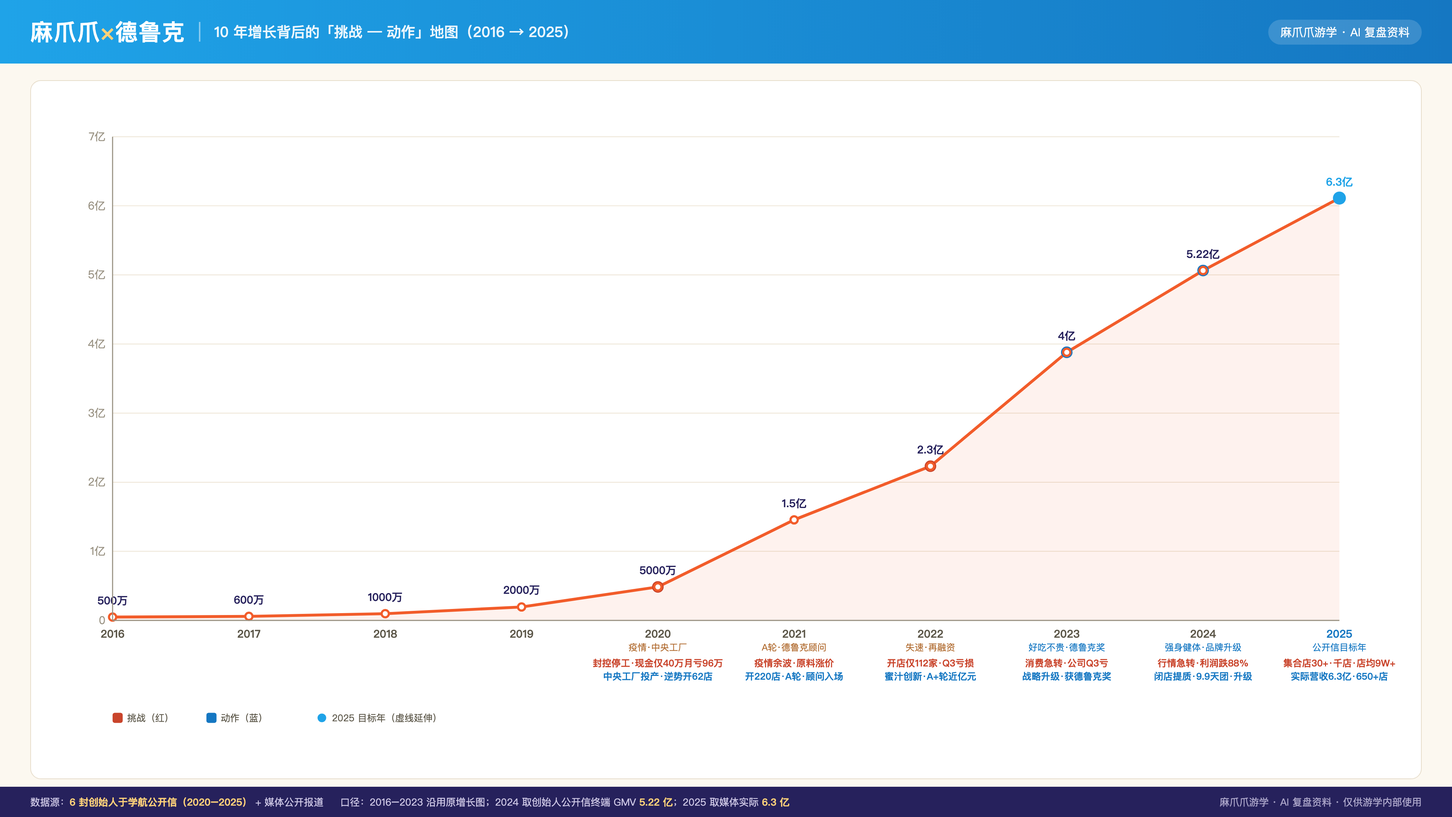
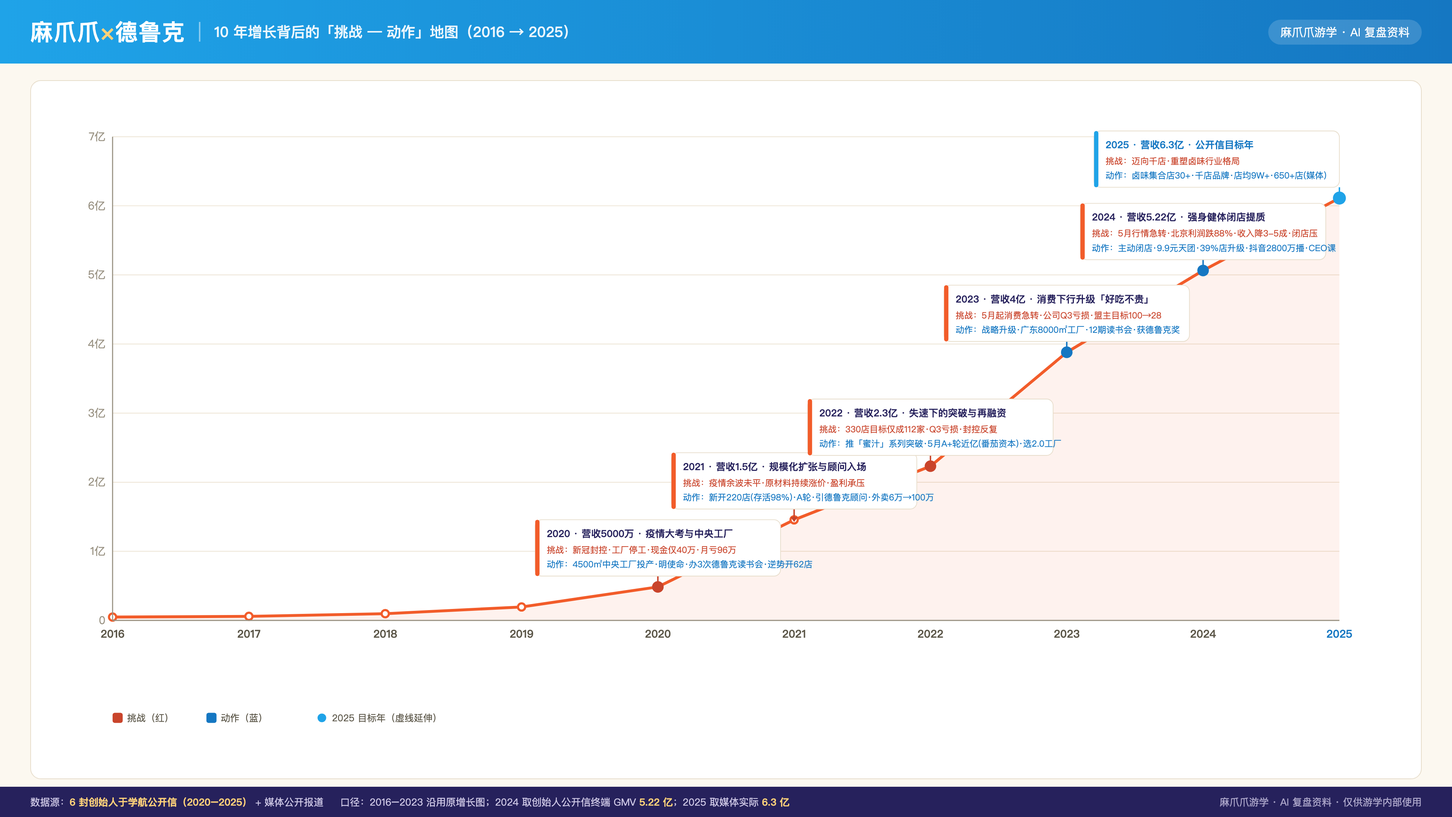
refactor: 增长图改成阶梯式标注卡(白卡+箭头指向红点,文字更详细)

diff --git a/麻爪爪增长图/麻爪爪增长图.html b/麻爪爪增长图/麻爪爪增长图.html
@@ -1,218 +1,193 @@
 <!DOCTYPE html>
-<html lang="zh-CN" data-page-node-id="DLvMQiXwWJyCf3pHoJ9dK3">
-<head data-page-node-id="TqVUnNRjd957ooH9zvPUG7">
-<meta charset="utf-8" data-page-node-id="NRvl7RgWLK0skeNorIsaU5">
+<html lang="zh-CN" data-page-node-id="DrVV4OsqwhjwbeRrLaZFBS">
+<head data-page-node-id="THE7OzbsE7HABSU1XOJDzS">
+<meta charset="utf-8" data-page-node-id="LMEACdOzOsFsvD1XphroMc">
 <title>麻爪爪 × 德鲁克 · 10年增长背后的「挑战—动作」地图</title>
 <style>
   * { box-sizing: border-box; margin: 0; padding: 0; }
   html, body {
     font-family: "PingFang SC", "Microsoft YaHei", "Hiragino Sans GB", sans-serif;
-    background: #e9eef3;
-    color: #2b2b33;
+    background: #e9eef3; color: #2b2b33;
   }
-  .page {
-    width: 1920px;
-    height: 1080px;
-    background: #FCF8F0;
-    display: flex;
-    flex-direction: column;
-    overflow: hidden;
-  }
+  .page { width: 1920px; height: 1080px; background: #FCF8F0; display: flex; flex-direction: column; overflow: hidden; }
   .banner {
-    height: 84px;
-    background: linear-gradient(90deg, #1FA3E8 0%, #1577c2 100%);
-    color: #fff;
-    display: flex;
-    align-items: center;
-    padding: 0 40px;
-    gap: 18px;
+    height: 84px; background: linear-gradient(90deg, #1FA3E8 0%, #1577c2 100%); color: #fff;
+    display: flex; align-items: center; padding: 0 40px; gap: 18px;
   }
   .banner .logo { font-size: 30px; font-weight: 800; letter-spacing: 1px; }
   .banner .logo b { color: #FFD27A; }
-  .banner .sub {
-    font-size: 19px; opacity: .92; font-weight: 500;
-    border-left: 2px solid rgba(255,255,255,.5); padding-left: 18px;
-  }
-  .banner .tag {
-    margin-left: auto; font-size: 15px; background: rgba(255,255,255,.16);
-    padding: 6px 16px; border-radius: 20px;
-  }
+  .banner .sub { font-size: 19px; opacity: .92; font-weight: 500; border-left: 2px solid rgba(255,255,255,.5); padding-left: 18px; }
+  .banner .tag { margin-left: auto; font-size: 15px; background: rgba(255,255,255,.16); padding: 6px 16px; border-radius: 20px; }
   .body { flex: 1; padding: 22px 40px 10px; }
-  .chartwrap {
-    width: 100%; height: 100%;
-    background: #fff;
-    border: 1px solid #e7ddcb;
-    border-radius: 14px;
-    padding: 16px 22px 8px;
-  }
+  .chartwrap { width: 100%; height: 100%; background: #fff; border: 1px solid #e7ddcb; border-radius: 14px; padding: 16px 22px 8px; }
   .chartwrap svg { width: 100%; height: 100%; }
-  .footer {
-    height: 40px;
-    background: #26215C;
-    color: #cfc9e6;
-    display: flex;
-    align-items: center;
-    padding: 0 40px;
-    font-size: 13px;
-    gap: 22px;
-  }
+  .footer { height: 40px; background: #26215C; color: #cfc9e6; display: flex; align-items: center; padding: 0 40px; font-size: 13px; gap: 22px; }
   .footer b { color: #FFD27A; }
   .footer .sp { margin-left: auto; opacity: .8; }
 </style>
 </head>
-<body data-page-node-id="QMV86z959CDQq01JBflPoS">
-<div class="page" data-page-node-id="FFLEA2j42176uGp8JbIH3r">
+<body data-page-node-id="CUxPFlGEBTb0fEpB51j4sa">
+<div class="page" data-page-node-id="au7ydxCPAgMVv10qAsBAir">
 
-  <div class="banner" data-page-node-id="SLme7WZAoGweInvZQHKuFA">
-    <div class="logo" data-page-node-id="vtfSeMtjiTROoWSZDYbm3O">麻爪爪<b data-page-node-id="Pe5BBQvb02yOf6dECTaNbo">×</b>德鲁克</div>
-    <div class="sub" data-page-node-id="eSNIVSqhwNe1ZquaRMKXuo">10 年增长背后的「挑战 — 动作」地图（2016 → 2025）</div>
-    <div class="tag" data-page-node-id="YZBLABktQajjSGF3LiSPlA">麻爪爪游学 · AI 复盘资料</div>
+  <div class="banner" data-page-node-id="4FL5ravF6OSr7dgYd7vcK3">
+    <div class="logo" data-page-node-id="3VPaA9UCQooHJgE01t1hoS">麻爪爪<b data-page-node-id="gcLZ0OhugdhWNtAN2d23k9">×</b>德鲁克</div>
+    <div class="sub" data-page-node-id="zgFqaSih9SUXSQCUWWdIJr">10 年增长背后的「挑战 — 动作」地图（2016 → 2025）</div>
+    <div class="tag" data-page-node-id="C9VRWymG9PVIxUA0Im8kLY">麻爪爪游学 · AI 复盘资料</div>
   </div>
 
-  <div class="body" data-page-node-id="NSzHZVSruXydPYte7sdHHc">
-    <div class="chartwrap" data-page-node-id="15jAURFHBSmj5rq3eBQWX9">
-      <svg viewBox="0 0 1880 880" xmlns="http://www.w3.org/2000/svg" font-family="PingFang SC, Microsoft YaHei, sans-serif" data-page-node-id="7Myo324PNL3kwrGOOxnPb9">
+  <div class="body" data-page-node-id="R46EQuCOnhqOFBOGl7gDbG">
+    <div class="chartwrap" data-page-node-id="pb61fjEmgVv1J6DgPlr9cZ">
+      <svg viewBox="0 0 1880 880" xmlns="http://www.w3.org/2000/svg" font-family="PingFang SC, Microsoft YaHei, sans-serif" data-page-node-id="YCHbvfRvor848GtHlSWZdy">
 
-        <!-- ===== gridlines ===== -->
-        <g stroke="#ece3d3" stroke-width="1" data-page-node-id="Kn0PuvoCBLVriB74kMKwVC">
-          <line x1="90" y1="700" x2="1790" y2="700" data-page-node-id="RVEufTHZd9hhbd3GABCUNp"/>
-          <line x1="90" y1="604.3" x2="1790" y2="604.3" data-page-node-id="8oFdoSIzl7T9LXxwkN1rHw"/>
-          <line x1="90" y1="508.6" x2="1790" y2="508.6" data-page-node-id="pZ37x7EzNqG9laFCAbIs1O"/>
-          <line x1="90" y1="412.9" x2="1790" y2="412.9" data-page-node-id="P4oBYDcwL8W35eSi2sAYx1"/>
-          <line x1="90" y1="317.1" x2="1790" y2="317.1" data-page-node-id="zdQBxKubhr7G2mVDapwNs8"/>
-          <line x1="90" y1="221.4" x2="1790" y2="221.4" data-page-node-id="tAK0QTw2cHKP8sf7CbanUI"/>
-          <line x1="90" y1="125.7" x2="1790" y2="125.7" data-page-node-id="jAnddhdQPNhr9uiECniWTc"/>
-          <line x1="90" y1="30" x2="1790" y2="30" data-page-node-id="C7ElYqXeLWlwq7CK5CEOUz"/>
+        <!-- gridlines -->
+        <g stroke="#ece3d3" stroke-width="1" data-page-node-id="K5KlfEBiGOMrGGxGHvp5Oe">
+          <line x1="90" y1="700" x2="1790" y2="700" data-page-node-id="CMXNUqgwZdSOgYBNyWVVOz"/>
+          <line x1="90" y1="604.3" x2="1790" y2="604.3" data-page-node-id="RAvoQzH2X7r0OFRRtHJIci"/>
+          <line x1="90" y1="508.6" x2="1790" y2="508.6" data-page-node-id="qQLYJJgzQIEUbeZYLQ6LBq"/>
+          <line x1="90" y1="412.9" x2="1790" y2="412.9" data-page-node-id="VgCbNzz1l8dgme6vDtQXBw"/>
+          <line x1="90" y1="317.1" x2="1790" y2="317.1" data-page-node-id="C6e1CMg7Nf1zOed8NeXV4I"/>
+          <line x1="90" y1="221.4" x2="1790" y2="221.4" data-page-node-id="CYVx6cV0PWUU2j8PfCR0QM"/>
+          <line x1="90" y1="125.7" x2="1790" y2="125.7" data-page-node-id="WCOHcMrCDNBvMBCArezamY"/>
+          <line x1="90" y1="30" x2="1790" y2="30" data-page-node-id="RVPyANDg1BXv1mR0bW4iFL"/>
         </g>
-        <!-- y labels -->
-        <g fill="#9a9384" font-size="15" text-anchor="end" data-page-node-id="DwAsBBl9d54mlBIE4eboV4">
-          <text x="80" y="705" data-page-node-id="wIC5mr32RDpsrdznFQAbxk">0</text>
-          <text x="80" y="609.3" data-page-node-id="y3hnx42XDY0TAsxoc8NEDw">1亿</text>
-          <text x="80" y="513.6" data-page-node-id="wRXIYEZGTzlCNNY0jLBDkF">2亿</text>
-          <text x="80" y="417.9" data-page-node-id="1AHv6Nk5DNNVoU76gAAkyv">3亿</text>
-          <text x="80" y="322.1" data-page-node-id="pbTPV0DAyktUX21ZTUK8dJ">4亿</text>
-          <text x="80" y="226.4" data-page-node-id="wWbnqt7dGN1ElPFTEB9NDQ">5亿</text>
-          <text x="80" y="130.7" data-page-node-id="UAMaO6z0GNKJiok4SqQZmK">6亿</text>
-          <text x="80" y="35" data-page-node-id="om3pn03zCuKMKjK8CuVh1F">7亿</text>
+        <g fill="#9a9384" font-size="15" text-anchor="end" data-page-node-id="L0HSdp9XbxvhiWxgJGBCOj">
+          <text x="80" y="705" data-page-node-id="ivuYDdmyNBE5DdeF6LWVXm">0</text>
+          <text x="80" y="609.3" data-page-node-id="kf5cKe4rK94ybUoA6jHUfE">1亿</text>
+          <text x="80" y="513.6" data-page-node-id="zYPoiJqbl1m7BsvYAqCsMC">2亿</text>
+          <text x="80" y="417.9" data-page-node-id="IQpVOdNtfoheEsYGnNOcKa">3亿</text>
+          <text x="80" y="322.1" data-page-node-id="fneJIDF176jNAnxvUKax77">4亿</text>
+          <text x="80" y="226.4" data-page-node-id="oC6QfZmLCw47sEBKjx7SLD">5亿</text>
+          <text x="80" y="130.7" data-page-node-id="Xb8qMIaZmf2y0jGUkbnCG7">6亿</text>
+          <text x="80" y="35" data-page-node-id="8YBzWlDnP4iTCyCCjriQLg">7亿</text>
         </g>
 
         <!-- 2025 dashed extension -->
-        <line x1="1601.1" y1="215.3" x2="1790" y2="115" stroke="#1FA3E8" stroke-width="2.5" stroke-dasharray="7 6" data-page-node-id="XedxxFe08TtPPL30rHVXPO"/>
+        <line x1="1601.1" y1="215.3" x2="1790" y2="115" stroke="#1FA3E8" stroke-width="2.5" stroke-dasharray="7 6" data-page-node-id="C8q5XpXVuk3LQ2UqeOZD4D"/>
 
         <!-- area + line -->
         <polygon fill="#F25C2A" fill-opacity="0.08"
-          points="90,695.4 278.9,694.4 467.8,690.7 656.7,681.4 845.6,653.6 1034.4,560.7 1223.3,486.4 1412.2,328.6 1601.1,215.3 1790,115 1790,700 90,700" data-page-node-id="w4iDSdtYDA30OnBi7dnRF5"/>
+          points="90,695.4 278.9,694.4 467.8,690.7 656.7,681.4 845.6,653.6 1034.4,560.7 1223.3,486.4 1412.2,328.6 1601.1,215.3 1790,115 1790,700 90,700" data-page-node-id="dN5UGlw4TTv379qPTcMSoT"/>
         <polyline fill="none" stroke="#F25C2A" stroke-width="4"
-          points="90,695.4 278.9,694.4 467.8,690.7 656.7,681.4 845.6,653.6 1034.4,560.7 1223.3,486.4 1412.2,328.6 1601.1,215.3 1790,115" data-page-node-id="RoBWCjjoK8mF1LndxKf9OW"/>
+          points="90,695.4 278.9,694.4 467.8,690.7 656.7,681.4 845.6,653.6 1034.4,560.7 1223.3,486.4 1412.2,328.6 1601.1,215.3 1790,115" data-page-node-id="lhgnUJtgBCNXFB8HvSwdhc"/>
 
+        <!-- data points (orange) -->
+        <g fill="#fff" stroke="#F25C2A" stroke-width="3" data-page-node-id="a9dekgHKCIz6VIAdHmwT8d">
+          <circle cx="90" cy="695.4" r="5" data-page-node-id="uoCE1YmOOKqwtKNoGsteLo"/>
+          <circle cx="278.9" cy="694.4" r="5" data-page-node-id="63FVUEi6aG8er84RBwBonn"/>
+          <circle cx="467.8" cy="690.7" r="5" data-page-node-id="sN0xPYA81iLmatmLGGR0LX"/>
+          <circle cx="656.7" cy="681.4" r="5" data-page-node-id="AYrvFOMWvpj2jnmoOECxe4"/>
+          <circle cx="845.6" cy="653.6" r="5" data-page-node-id="t2ZOeDTJBWjAjlggNYpHyn"/>
+          <circle cx="1034.4" cy="560.7" r="5" data-page-node-id="elxENlpMziPfQGh2bVHXQw"/>
+          <circle cx="1223.3" cy="486.4" r="5" data-page-node-id="NCYoxGSCtipKobKEVXzw87"/>
+          <circle cx="1412.2" cy="328.6" r="5" data-page-node-id="QxNs8slGmgRZSjIKldZcpW"/>
+          <circle cx="1601.1" cy="215.3" r="5" data-page-node-id="AVACZbYB1T6FgIHuTJ3wws"/>
+        </g>
         <!-- milestone dots -->
-        <g data-page-node-id="tSfyIuCwVe4unNj0NGznQ4">
-          <circle cx="845.6" cy="653.6" r="8" fill="#C9442B" data-page-node-id="Hc4zkVHQ8mPDrmfEbTUzCY"/>
-          <circle cx="1223.3" cy="486.4" r="8" fill="#C9442B" data-page-node-id="u451GBh0sFgD14tPmiAzz4"/>
-          <circle cx="1412.2" cy="328.6" r="8" fill="#1577c2" data-page-node-id="OqqvB3D47o56ELG1vbJuSm"/>
-          <circle cx="1601.1" cy="215.3" r="8" fill="#1577c2" data-page-node-id="9FdWGTvMxjFX5ZRCCXFVw2"/>
-          <circle cx="1790" cy="115" r="9" fill="#1FA3E8" data-page-node-id="VMQyUkJwCL8NqEHq1xXdGU"/>
-        </g>
-        <!-- data points -->
-        <g fill="#fff" stroke="#F25C2A" stroke-width="3" data-page-node-id="Z0IyJaFDoHGwEELqEvAxHf">
-          <circle cx="90" cy="695.4" r="5" data-page-node-id="jzovbxXLLWr6fLl6sfWDzE"/>
-          <circle cx="278.9" cy="694.4" r="5" data-page-node-id="DD9fIcGZpXQc2xKFdf9tXS"/>
-          <circle cx="467.8" cy="690.7" r="5" data-page-node-id="Tx7vOsRnbMreFvMVKvz1S2"/>
-          <circle cx="656.7" cy="681.4" r="5" data-page-node-id="tl48PyPOE8aeDGylwRIXZq"/>
-          <circle cx="845.6" cy="653.6" r="5" data-page-node-id="eqeS3jO3de5k0vFCbhJ84w"/>
-          <circle cx="1034.4" cy="560.7" r="5" data-page-node-id="8zGHvgRPzYMx72bmmklSKB"/>
-          <circle cx="1223.3" cy="486.4" r="5" data-page-node-id="mcziihL3eTId9EoaLaNNQG"/>
-          <circle cx="1412.2" cy="328.6" r="5" data-page-node-id="eiJqNqUBSUqE988NsDccsi"/>
-          <circle cx="1601.1" cy="215.3" r="5" data-page-node-id="siMgPCxA6ii7wVJcfYNRbk"/>
+        <g data-page-node-id="qJWErGGb2GSX28DE5HE6yN">
+          <circle cx="845.6" cy="653.6" r="8" fill="#C9442B" data-page-node-id="IZFgfbcoIq9W4jfBbMMHXY"/>
+          <circle cx="1223.3" cy="486.4" r="8" fill="#C9442B" data-page-node-id="tpgOEU7CDQ8DLaH8eCrkqd"/>
+          <circle cx="1412.2" cy="328.6" r="8" fill="#1577c2" data-page-node-id="8xnIur9RuafJMV34cTeID4"/>
+          <circle cx="1601.1" cy="215.3" r="8" fill="#1577c2" data-page-node-id="4V38kgKqpgeIIdA94eJrlQ"/>
+          <circle cx="1790" cy="115" r="9" fill="#1FA3E8" data-page-node-id="zmaULBW1ZdV7xmmyvdY90M"/>
         </g>
 
-        <!-- value labels above points -->
-        <g fill="#26215C" font-size="15" font-weight="700" text-anchor="middle" data-page-node-id="VvRhrlgIDmeAojODOmjENe">
-          <text x="90" y="678" data-page-node-id="xzKB6c3ppBwhAm55HZryGC">500万</text>
-          <text x="278.9" y="677" data-page-node-id="IfH1FsHqABCkmSTG1atWRC">600万</text>
-          <text x="467.8" y="673" data-page-node-id="G03nc7EThoiAYwgfq4LDmY">1000万</text>
-          <text x="656.7" y="663" data-page-node-id="Bddaz34KB6rpSu7sOwJhHk">2000万</text>
-          <text x="845.6" y="636" data-page-node-id="AiBkqjP1z1uYyB1MQfAOdo">5000万</text>
-          <text x="1034.4" y="543" data-page-node-id="OgE4l5bhVmxmdNNaI1zHWf">1.5亿</text>
-          <text x="1223.3" y="469" data-page-node-id="FclCgJBxc7JHnMkvlGg2yR">2.3亿</text>
-          <text x="1412.2" y="311" data-page-node-id="YyvADTK9RIGq5B5QPNgEoA">4亿</text>
-          <text x="1601.1" y="198" data-page-node-id="5bwqDmBFZMLorpODH2xqzb">5.22亿</text>
-          <text x="1790" y="98" fill="#1FA3E8" data-page-node-id="RXCRaEQFix68x2Hq3aKmpF">6.3亿</text>
-        </g>
-
-        <!-- ===== x-axis: year + event + 挑战/动作 精简标注 ===== -->
-        <!-- 2016-2019 仅年份 -->
-        <g text-anchor="middle" fill="#5b5648" font-size="15" font-weight="700" data-page-node-id="iYzzCUR0K2zRA3KRhvS5Mc">
-          <text x="90" y="724" data-page-node-id="EV0GvBfad2x5CggFC8GioU">2016</text>
-          <text x="278.9" y="724" data-page-node-id="tfgL7AopQogort6fSE0Osh">2017</text>
-          <text x="467.8" y="724" data-page-node-id="ULubgbHSZxJtE5W3ZELDSI">2018</text>
-          <text x="656.7" y="724" data-page-node-id="lGB9mHz3GmLplVAut1Go2g">2019</text>
-        </g>
-
+        <!-- ===== 阶梯式标注卡（在红点正上方，箭头指向点）===== -->
         <!-- 2020 -->
-        <g text-anchor="middle" data-page-node-id="9RMCVGVCZwPeGIjhQzFm8r">
-          <text x="845.6" y="724" fill="#5b5648" font-size="15" font-weight="700" data-page-node-id="pho9CYrsFMWDnXBJWRiUB7">2020</text>
-          <text x="845.6" y="742" fill="#b06a2e" font-size="12.5" data-page-node-id="loKKDb1rNYoRgHiD16trJV">疫情·中央工厂</text>
-          <text x="845.6" y="764" fill="#C9442B" font-size="13" font-weight="700" data-page-node-id="xW1BsxxHosEg3Jltxd2EGg">封控停工·现金仅40万月亏96万</text>
-          <text x="845.6" y="782" fill="#1577c2" font-size="13" font-weight="700" data-page-node-id="s4js3U5RtwpZciEkiorwqV">中央工厂投产·逆势开62店</text>
+        <g data-page-node-id="tZg82k0wIdtm3c4uOfHP7k">
+          <line x1="845.6" y1="638.6" x2="845.6" y2="653.6" stroke="#C9442B" stroke-width="2" data-page-node-id="9ov93hb5mpBKeSe7CHNNBz"/>
+          <polygon points="840.6,649.6 850.6,649.6 845.6,656.6" fill="#C9442B" data-page-node-id="MRkfCwqGb4E3wBLCWcdQRM"/>
+          <rect x="675.6" y="560.6" width="340" height="78" rx="9" fill="#fff" stroke="#e7ddcb" stroke-width="1" data-page-node-id="6VsBmAJRBLa6StvC0hCS6h"/>
+          <rect x="675.6" y="560.6" width="6" height="78" rx="3" fill="#F25C2A" data-page-node-id="oNMNnudGqNYo89dh6uGN3a"/>
+          <text x="691.6" y="584.6" font-size="13.5" font-weight="800" fill="#26215C" data-page-node-id="OgBOARJBn3rKV3oidGMNaP">2020 · 营收5000万 · 疫情大考与中央工厂</text>
+          <text x="691.6" y="606.6" font-size="12" fill="#C9442B" data-page-node-id="leK3zGioJVDnWB3Ji0IaaN">挑战：新冠封控·工厂停工·现金仅40万·月亏96万</text>
+          <text x="691.6" y="626.6" font-size="12" fill="#1577c2" data-page-node-id="wXkAKrpdiaDF5LDbhmqzKE">动作：4500㎡中央工厂投产·明使命·办3次德鲁克读书会·逆势开62店</text>
         </g>
         <!-- 2021 -->
-        <g text-anchor="middle" data-page-node-id="1DuNQJR4ArHn2GGJ4FoGRR">
-          <text x="1034.4" y="724" fill="#5b5648" font-size="15" font-weight="700" data-page-node-id="TG82jnHeqD17rfbbVNLCro">2021</text>
-          <text x="1034.4" y="742" fill="#b06a2e" font-size="12.5" data-page-node-id="7hpUOCMj12JwPo9wDhNhQM">A轮·德鲁克顾问</text>
-          <text x="1034.4" y="764" fill="#C9442B" font-size="13" font-weight="700" data-page-node-id="8GtHN1UvT6MFIM8liShQJ5">疫情余波·原料涨价</text>
-          <text x="1034.4" y="782" fill="#1577c2" font-size="13" font-weight="700" data-page-node-id="aIrJlKsUPOEAc60rsnIkjY">开220店·A轮·顾问入场</text>
+        <g data-page-node-id="j0EE1lAFBP1LprdMVUw3y4">
+          <line x1="1034.4" y1="545.7" x2="1034.4" y2="560.7" stroke="#C9442B" stroke-width="2" data-page-node-id="jj0X33HHiERTDlGNDCKUZ0"/>
+          <polygon points="1029.4,556.7 1039.4,556.7 1034.4,563.7" fill="#C9442B" data-page-node-id="wpQ3qps8Js9TOlZYFn5usO"/>
+          <rect x="864.4" y="467.7" width="340" height="78" rx="9" fill="#fff" stroke="#e7ddcb" stroke-width="1" data-page-node-id="f02WMiexv8b0LA2TOYI7Bx"/>
+          <rect x="864.4" y="467.7" width="6" height="78" rx="3" fill="#F25C2A" data-page-node-id="CjAmTWfsA8UwVrR1zRDfh5"/>
+          <text x="880.4" y="491.7" font-size="13.5" font-weight="800" fill="#26215C" data-page-node-id="9uFJJS01TRCcRkQxrJXRCd">2021 · 营收1.5亿 · 规模化扩张与顾问入场</text>
+          <text x="880.4" y="513.7" font-size="12" fill="#C9442B" data-page-node-id="MMV2gEdqBwWGrNAvzcdOeh">挑战：疫情余波未平·原材料持续涨价·盈利承压</text>
+          <text x="880.4" y="533.7" font-size="12" fill="#1577c2" data-page-node-id="4nMom0sBtN6anYg98fV0VR">动作：新开220店(存活98%)·A轮·引德鲁克顾问·外卖6万→100万</text>
         </g>
         <!-- 2022 -->
-        <g text-anchor="middle" data-page-node-id="JjSNFDWMsWXPMaTzKeRniA">
-          <text x="1223.3" y="724" fill="#5b5648" font-size="15" font-weight="700" data-page-node-id="E5cuJINAeU188BqPwCnZOf">2022</text>
-          <text x="1223.3" y="742" fill="#b06a2e" font-size="12.5" data-page-node-id="CukvsRtTbxq5dHHvkRnnpD">失速·再融资</text>
-          <text x="1223.3" y="764" fill="#C9442B" font-size="13" font-weight="700" data-page-node-id="x7trLdEj4eIpnqdyn95Nt7">开店仅112家·Q3亏损</text>
-          <text x="1223.3" y="782" fill="#1577c2" font-size="13" font-weight="700" data-page-node-id="A9TIXKZT9lobMhfOkDTXeJ">蜜汁创新·A+轮近亿元</text>
+        <g data-page-node-id="pRANrLyf0WooLmmAviiBIC">
+          <line x1="1223.3" y1="471.4" x2="1223.3" y2="486.4" stroke="#C9442B" stroke-width="2" data-page-node-id="0BDm2kuAuh0tysBDLHWYjS"/>
+          <polygon points="1218.3,482.4 1228.3,482.4 1223.3,489.4" fill="#C9442B" data-page-node-id="lJy3PtjKWBBzIeNdE0QQqE"/>
+          <rect x="1053.3" y="393.4" width="340" height="78" rx="9" fill="#fff" stroke="#e7ddcb" stroke-width="1" data-page-node-id="YdiqrivMA61BXMFz8nEtoy"/>
+          <rect x="1053.3" y="393.4" width="6" height="78" rx="3" fill="#F25C2A" data-page-node-id="LrB5yWyNKzUJfh4owRfm7o"/>
+          <text x="1069.3" y="417.4" font-size="13.5" font-weight="800" fill="#26215C" data-page-node-id="JtPcQ7H2IELiQWC1v1XZkK">2022 · 营收2.3亿 · 失速下的突破与再融资</text>
+          <text x="1069.3" y="439.4" font-size="12" fill="#C9442B" data-page-node-id="3sYS5wsOmJbHvURQMDLvUX">挑战：330店目标仅成112家·Q3亏损·封控反复</text>
+          <text x="1069.3" y="459.4" font-size="12" fill="#1577c2" data-page-node-id="3vomHWODsmjlXljeXZGy4u">动作：推「蜜汁」系列突破·5月A+轮近亿(番茄资本)·选2.0工厂</text>
         </g>
         <!-- 2023 -->
-        <g text-anchor="middle" data-page-node-id="1j2XwlnyebyWCoDtACaz47">
-          <text x="1412.2" y="724" fill="#5b5648" font-size="15" font-weight="700" data-page-node-id="qN58mGkwlCIrsVFDXW38Bi">2023</text>
-          <text x="1412.2" y="742" fill="#1577c2" font-size="12.5" data-page-node-id="s7nKuBD0B7fVXY9QweJ5OE">好吃不贵·德鲁克奖</text>
-          <text x="1412.2" y="764" fill="#C9442B" font-size="13" font-weight="700" data-page-node-id="p7q1KlG86hDAYgvbaoJOA1">消费急转·公司Q3亏</text>
-          <text x="1412.2" y="782" fill="#1577c2" font-size="13" font-weight="700" data-page-node-id="qzZs5xjd7TzBzUU4yk8Hx0">战略升级·获德鲁克奖</text>
+        <g data-page-node-id="BD6TVAiRhyTyPSivSUG5Hw">
+          <line x1="1412.2" y1="313.6" x2="1412.2" y2="328.6" stroke="#1577c2" stroke-width="2" data-page-node-id="bdeaBUq8iREAeFKTlR4RhR"/>
+          <polygon points="1407.2,324.6 1417.2,324.6 1412.2,331.6" fill="#1577c2" data-page-node-id="QoGWKVMV73OEJO6L8p0avk"/>
+          <rect x="1242.2" y="235.6" width="340" height="78" rx="9" fill="#fff" stroke="#e7ddcb" stroke-width="1" data-page-node-id="O0exm7BJqmIj7bnFxbpYv5"/>
+          <rect x="1242.2" y="235.6" width="6" height="78" rx="3" fill="#F25C2A" data-page-node-id="Z3pB4uVDb8MvwHLyJocGCm"/>
+          <text x="1258.2" y="259.6" font-size="13.5" font-weight="800" fill="#26215C" data-page-node-id="MkRFxVBgrYsBKUU2SIrrqH">2023 · 营收4亿 · 消费下行升级「好吃不贵」</text>
+          <text x="1258.2" y="281.6" font-size="12" fill="#C9442B" data-page-node-id="gBgd2GBkxZeV3VOLnYlHe1">挑战：5月起消费急转·公司Q3亏损·盟主目标100→28</text>
+          <text x="1258.2" y="301.6" font-size="12" fill="#1577c2" data-page-node-id="u8UwFAgif0aTFiq22slCG9">动作：战略升级·广东8000㎡工厂·12期读书会·获德鲁克奖</text>
         </g>
         <!-- 2024 -->
-        <g text-anchor="middle" data-page-node-id="LCTKIuSvE9hLR3PoRESucn">
-          <text x="1601.1" y="724" fill="#5b5648" font-size="15" font-weight="700" data-page-node-id="V1js78kKlDAwzpnKCutrHH">2024</text>
-          <text x="1601.1" y="742" fill="#1577c2" font-size="12.5" data-page-node-id="HTxVNkSzEd5GQBWe6X2tk8">强身健体·品牌升级</text>
-          <text x="1601.1" y="764" fill="#C9442B" font-size="13" font-weight="700" data-page-node-id="LX28mm2ZwciFgWmsvVsODi">行情急转·利润跌88%</text>
-          <text x="1601.1" y="782" fill="#1577c2" font-size="13" font-weight="700" data-page-node-id="q3RtgwNHPldCOkmhvOHmo7">闭店提质·9.9天团·升级</text>
+        <g data-page-node-id="WLJbdACs762dYeFG1KuZJl">
+          <line x1="1601.1" y1="200.3" x2="1601.1" y2="215.3" stroke="#1577c2" stroke-width="2" data-page-node-id="VpGSqlT7fy9GV71qE5jJhf"/>
+          <polygon points="1596.1,211.3 1606.1,211.3 1601.1,218.3" fill="#1577c2" data-page-node-id="ZOxru29IHKT3u0gJfp0zxX"/>
+          <rect x="1431.1" y="122.3" width="340" height="78" rx="9" fill="#fff" stroke="#e7ddcb" stroke-width="1" data-page-node-id="EEFJgEH6BFmXScTqzXv2Gr"/>
+          <rect x="1431.1" y="122.3" width="6" height="78" rx="3" fill="#F25C2A" data-page-node-id="HH599FtYG9RJl6J1p95wkh"/>
+          <text x="1447.1" y="146.3" font-size="13.5" font-weight="800" fill="#26215C" data-page-node-id="sgWIunDZ1H4JIBjsUizM7K">2024 · 营收5.22亿 · 强身健体闭店提质</text>
+          <text x="1447.1" y="168.3" font-size="12" fill="#C9442B" data-page-node-id="X8ckf5sknU8YDFjNECVnih">挑战：5月行情急转·北京利润跌88%·收入降3-5成·闭店压</text>
+          <text x="1447.1" y="188.3" font-size="12" fill="#1577c2" data-page-node-id="P4miSjhYHBRdWJ80xOHebh">动作：主动闭店·9.9元天团·39%店升级·抖音2800万播·CEO课</text>
         </g>
-        <!-- 2025 -->
-        <g text-anchor="middle" data-page-node-id="Vs4CLBjTfZcfIFW4wnQTRf">
-          <text x="1790" y="724" fill="#1577c2" font-size="15" font-weight="700" data-page-node-id="CkF4HdEFhb4EC0MANFbDvd">2025</text>
-          <text x="1790" y="742" fill="#1577c2" font-size="12.5" data-page-node-id="zKmXDa4gNQHUAEylT3vFF4">公开信目标年</text>
-          <text x="1790" y="764" fill="#C9442B" font-size="13" font-weight="700" data-page-node-id="tPpJYW6MHVMYi1E5NsOBMd">集合店30+·千店·店均9W+</text>
-          <text x="1790" y="782" fill="#1577c2" font-size="13" font-weight="700" data-page-node-id="ZHieiVM1ZayMvQl6UEOcXa">实际营收6.3亿·650+店</text>
+        <!-- 2025 (贴右缘) -->
+        <g data-page-node-id="3fxMLuZE6RbZDyJ2uJwbOW">
+          <line x1="1790" y1="100" x2="1790" y2="115" stroke="#1FA3E8" stroke-width="2" data-page-node-id="MmXkaexxEiXUSPK4beE06z"/>
+          <polygon points="1785,111 1795,111 1790,118" fill="#1FA3E8" data-page-node-id="rK9aFzGICKtn7OXIAPifoX"/>
+          <rect x="1450" y="22" width="340" height="78" rx="9" fill="#fff" stroke="#e7ddcb" stroke-width="1" data-page-node-id="6UFpgcFqkARx8KzucAHftX"/>
+          <rect x="1450" y="22" width="6" height="78" rx="3" fill="#1FA3E8" data-page-node-id="1daYKYCYgCqFAxH7lN9e5k"/>
+          <text x="1466" y="46" font-size="13.5" font-weight="800" fill="#1577c2" data-page-node-id="KcvikTScWBmDDLxufGm6aL">2025 · 营收6.3亿 · 公开信目标年</text>
+          <text x="1466" y="68" font-size="12" fill="#C9442B" data-page-node-id="w6xneduybWTd2JOEi3xyyM">挑战：迈向千店·重塑卤味行业格局</text>
+          <text x="1466" y="88" font-size="12" fill="#1577c2" data-page-node-id="IGZCFqwxB8gnf8TBEtcQBE">动作：卤味集合店30+·千店品牌·店均9W+·650+店(媒体)</text>
+        </g>
+
+        <!-- x-axis labels -->
+        <g text-anchor="middle" fill="#5b5648" font-size="15" font-weight="700" data-page-node-id="sXSAhFAF3G1OmC1L7YAYMz">
+          <text x="90" y="724" data-page-node-id="1YtZGrzQhkDdEoTvELSOwd">2016</text>
+          <text x="278.9" y="724" data-page-node-id="HXxBhAsan39tdRjsABXnje">2017</text>
+          <text x="467.8" y="724" data-page-node-id="DGbGDY7zRrjrt5YwFudbuo">2018</text>
+          <text x="656.7" y="724" data-page-node-id="02AnntsMQZYQP1zO4zQS52">2019</text>
+          <text x="845.6" y="724" data-page-node-id="val650NxYEAqK4lT4vXNl7">2020</text>
+          <text x="1034.4" y="724" data-page-node-id="9KQZRsIqZrg7zH4WO4QC2u">2021</text>
+          <text x="1223.3" y="724" data-page-node-id="XiIoKG2vlPq5EAxgvbGfB0">2022</text>
+          <text x="1412.2" y="724" data-page-node-id="CgcsRNG4v69xy4JEClxLIY">2023</text>
+          <text x="1601.1" y="724" data-page-node-id="5866CrRuXbTxAxkx70QvUq">2024</text>
+          <text x="1790" y="724" fill="#1577c2" data-page-node-id="xk68U50UV9YbwZeBr3oGqy">2025</text>
         </g>
 
         <!-- axis -->
-        <line x1="90" y1="30" x2="90" y2="700" stroke="#9a9384" stroke-width="1.5" data-page-node-id="K6TDKp8aIxvy8C0uZzvElC"/>
-        <line x1="90" y1="700" x2="1790" y2="700" stroke="#9a9384" stroke-width="1.5" data-page-node-id="CrIwhubmcN1Crq0mAu6YxI"/>
+        <line x1="90" y1="30" x2="90" y2="700" stroke="#9a9384" stroke-width="1.5" data-page-node-id="D8y1f4ZFNrL2IZZAmGlchV"/>
+        <line x1="90" y1="700" x2="1790" y2="700" stroke="#9a9384" stroke-width="1.5" data-page-node-id="6byDylKXArcOBL2oj0rH23"/>
 
         <!-- legend -->
-        <g font-size="13" transform="translate(90,840)" data-page-node-id="lS8onVMflkm42XsSAw6alh">
-          <rect x="0" y="-12" width="14" height="14" rx="3" fill="#C9442B" data-page-node-id="uXV8UAOq0ogXQr0CCBMEFa"/>
-          <text x="20" y="0" fill="#5b5648" data-page-node-id="kY4BVODr3wjlH1m70ZxwUH">挑战（红）</text>
-          <rect x="130" y="-12" width="14" height="14" rx="3" fill="#1577c2" data-page-node-id="94Wy42Br3JWoBsq3QqNG5h"/>
-          <text x="150" y="0" fill="#5b5648" data-page-node-id="XpR5MhHqv6E4CJhFdnQ0sc">动作（蓝）</text>
-          <circle cx="290" cy="-5" r="6" fill="#1FA3E8" data-page-node-id="52uLLKixOFpSx5pl0ItqFG"/>
-          <text x="304" y="0" fill="#5b5648" data-page-node-id="fw6FZeBz09zBTrPkRHdcfT">2025 目标年（虚线延伸）</text>
+        <g font-size="13" transform="translate(90,840)" data-page-node-id="fVhhsh8NP6bUJNwgFZGKVM">
+          <rect x="0" y="-12" width="14" height="14" rx="3" fill="#C9442B" data-page-node-id="cEguj2JsWMRyEDXVccnRFN"/>
+          <text x="20" y="0" fill="#5b5648" data-page-node-id="TFbnDOZAkY7yF28kE2jOR8">挑战（红）</text>
+          <rect x="130" y="-12" width="14" height="14" rx="3" fill="#1577c2" data-page-node-id="oPerfFd6wT77K48OHv2OD6"/>
+          <text x="150" y="0" fill="#5b5648" data-page-node-id="ZAamXwH6Xf1d7DW0vHffvU">动作（蓝）</text>
+          <circle cx="290" cy="-5" r="6" fill="#1FA3E8" data-page-node-id="8rMIQZL4LhAztGtSAPGHRg"/>
+          <text x="304" y="0" fill="#5b5648" data-page-node-id="goIrjy4rI5YcH9KwyPtHqC">2025 目标年（虚线延伸）</text>
         </g>
       </svg>
     </div>
   </div>
 
-  <div class="footer" data-page-node-id="y0fLd3qC7GWfRZEwoyiS79">
-    <span data-page-node-id="b9sWrxkj6E6BbYNBbpjdCw">数据源：<b data-page-node-id="82M6Zk92VoEsZGfPvFHeIj">6 封创始人于学航公开信（2020–2025）</b> + 媒体公开报道</span>
-    <span data-page-node-id="wWTN7iKEMjVuXtsCC1yH34">口径：2016–2023 沿用原增长图；2024 取创始人公开信终端 GMV <b data-page-node-id="1ZNpVSPQnRgWCnOd7H33Nk">5.22 亿</b>；2025 取媒体实际 <b data-page-node-id="7vEGatHOIHOTAw4c3NvXiW">6.3 亿</b></span>
-    <span class="sp" data-page-node-id="oxWcGwVXfg7OGzhOtGZknp">麻爪爪游学 · AI 复盘资料 · 仅供游学内部使用</span>
+  <div class="footer" data-page-node-id="sClywm7sX1iul77s3euwjN">
+    <span data-page-node-id="jpWTpObTT4g04jqP2zXYAg">数据源：<b data-page-node-id="bmwBa9yrKodQZemiRFHaEb">6 封创始人于学航公开信（2020–2025）</b> + 媒体公开报道</span>
+    <span data-page-node-id="gjdg35RjItjhQHV73S6Drv">口径：2016–2023 沿用原增长图；2024 取创始人公开信终端 GMV <b data-page-node-id="Q7kEvxPA0zqNiRExu6DJXd">5.22 亿</b>；2025 取媒体实际 <b data-page-node-id="deyydirxJD3gFPZcE5PTYG">6.3 亿</b></span>
+    <span class="sp" data-page-node-id="OYXt5L14SLwIxSC3mGPDgY">麻爪爪游学 · AI 复盘资料 · 仅供游学内部使用</span>
   </div>
 
 </div>
